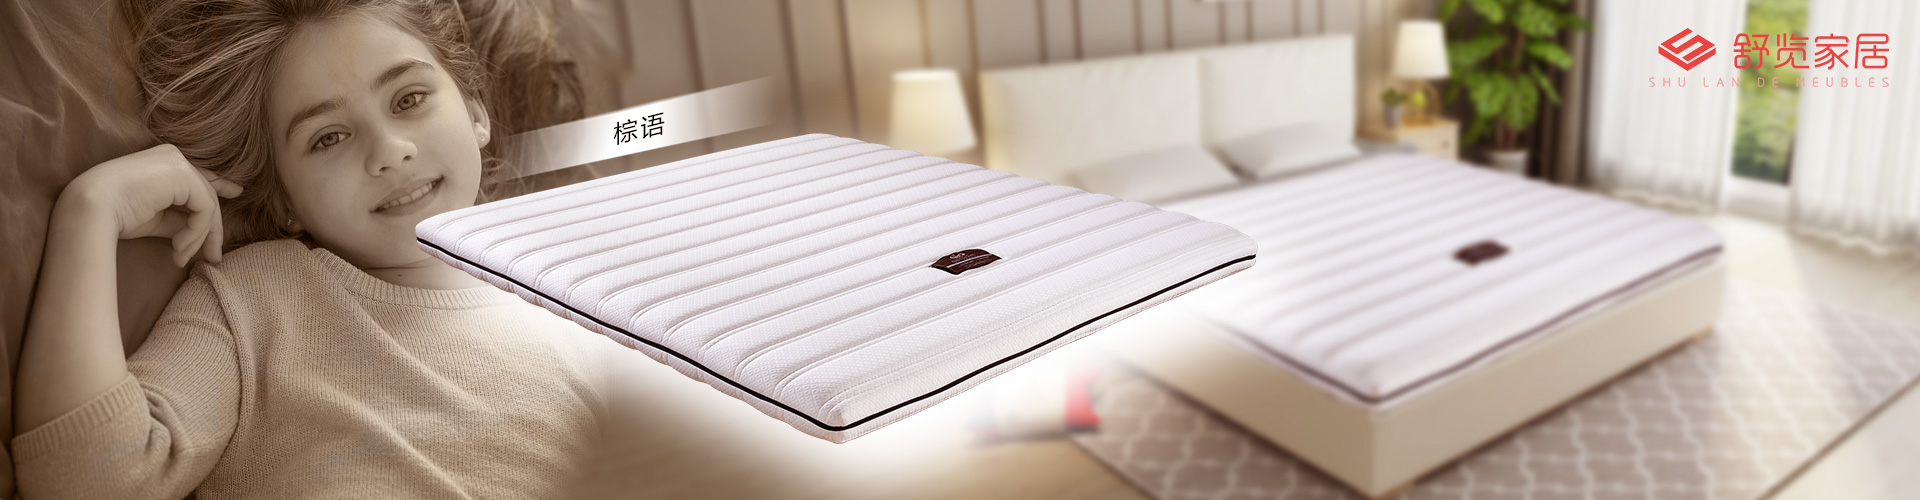
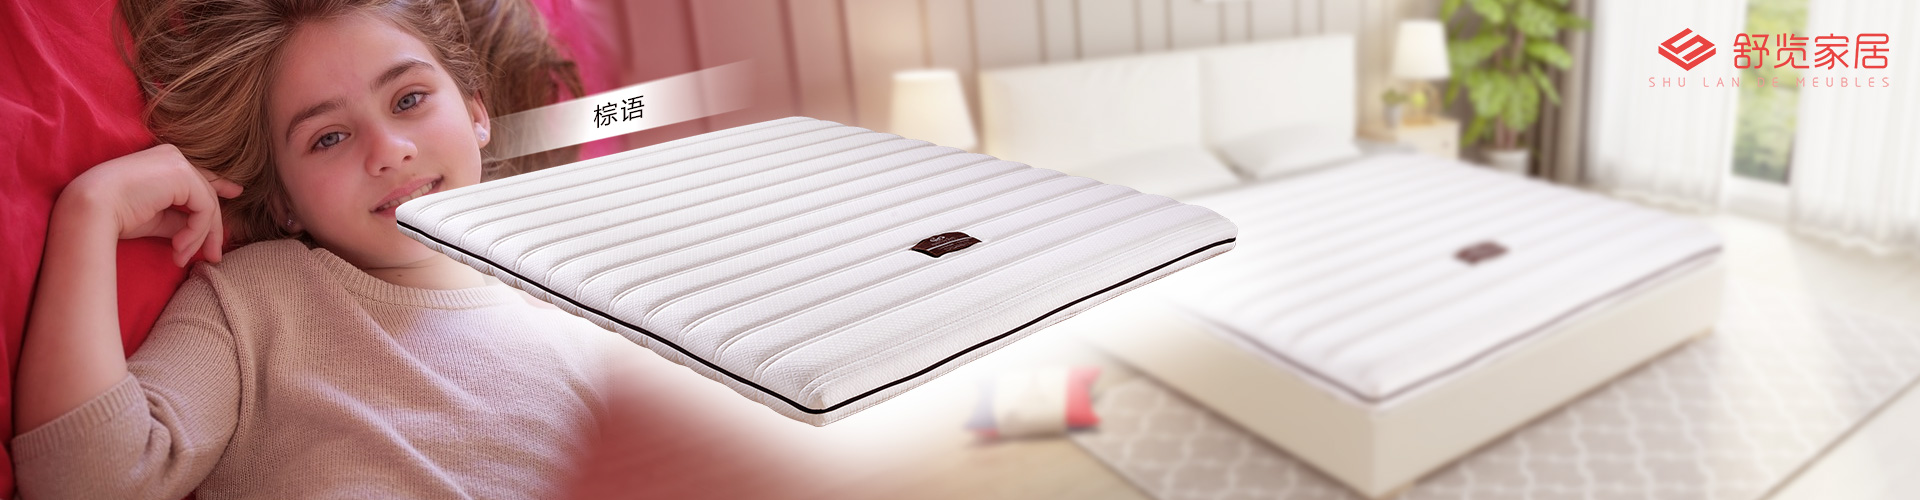
3-15b

diff --git a/src/components/yo-slideshow.vue b/src/components/yo-slideshow.vue
@@ -5,9 +5,15 @@
     <div class="swiper-wrapper">
       <!-- Slides -->
       <!-- <div class="swiper-slide" v-for="item in 3">Slide {{item}}</div> -->
-      <div class="swiper-slide w3-gray">Slide1</div>
-      <div class="swiper-slide w3-gray">Slide2</div>
-      <div class="swiper-slide w3-gray">Slide3</div>
+      <div class="swiper-slide">
+        <img src="/static/bigpic01.jpg" class="w3-block animated pulse infinite" alt="">
+      </div>
+      <div class="swiper-slide">
+        <img src="/static/bigpic06.jpg" class="w3-block animated pulse infinite" alt="">
+      </div>
+      <div class="swiper-slide">
+        <img src="/static/bigpic03.jpg" class="w3-block animated pulse infinite" alt="">
+      </div>
     </div>
     <!-- If we need pagination -->
     <div class="swiper-pagination"></div>
@@ -28,9 +34,9 @@ export default {
   },
   mounted() {
     const mySwiper = new Swiper(".swiper-container", {
-      centeredSlides: true,
+      // centeredSlides: true,
       autoplay: {
-        delay: 2500,
+        delay: 5000,
         disableOnInteraction: false
       },
       pagination: {
@@ -41,7 +47,8 @@ export default {
         nextEl: ".swiper-button-next",
         prevEl: ".swiper-button-prev"
       },
-      loop: true
+      loop: true,
+      lazy: true
     });
   }
 };
@@ -70,5 +77,9 @@ export default {
   -ms-flex-align: center;
   -webkit-align-items: center;
   align-items: center;
+}
+.pulse {
+  animation-duration: 12s;
+  animation-fill-mode: both;
 }
 </style>

diff --git a/src/pages/slindex.vue b/src/pages/slindex.vue
@@ -1,6 +1,6 @@
 <template>
     <div>
-        <yo-slideshow style="height:500px" class="wow flipInX"></yo-slideshow>
+        <yo-slideshow class="wow flipInX"></yo-slideshow>
         <!--  -->
         <div class="w3-padding-32 w3-row" style="max-width:1500px;margin:auto">
             <router-link :to="{name: 'brand'}">
@@ -30,7 +30,7 @@
 
         </div>
         <!--  -->
-        <div class="w3-padding-32 w3-row">
+        <div class="w3-padding-32 w3-row" style="max-width:1500px;margin:auto">
             <img src="/static/sulan1920x500.jpg" alt="" class="w3-block wow bounceIn" data-wow-delay="0.6s">
         </div>
         <!--  -->
@@ -41,7 +41,7 @@
                 </h2>
             </div>
             <div class="w3-quarter w3-padding">
-                <img :src="imgp" alt="" class="w3-block wow fadeInLeft">
+                <img src="/static/400x580a.jpg" alt="" class="w3-block wow fadeInLeft">
             </div>
             <div class="w3-half">
                 <ul class="w3-ul w3-padding wow fadeInUp">
@@ -59,7 +59,7 @@
                 </ul>
             </div>
             <div class="w3-quarter w3-padding">
-                <img :src="imgp" alt="" class="w3-block wow fadeInRight">
+                <img src="/static/400x580b.jpg" alt="" class="w3-block wow fadeInRight">
             </div>
         </div>
     </div>

diff --git a/src/pages/articlelist.vue b/src/pages/articlelist.vue
@@ -16,12 +16,12 @@
         <li v-for="item in 6" :key="item.id" class="w3-light-gray w3-border-bottom" data-wow-delay="0.2s">
           <router-link :to="{name: 'articledetail', params: { id: item }}">
 
-            <img :src="imgp" alt="" class="w3-left w3-margin-right w3-padding" style="height:187px">
+            <img src="/static/news.jpg" alt="" class="w3-left w3-margin-right w3-padding" style="height:187px">
             <div class="w3-light-gray" style="padding:0 50px;height:196px;overflow: hidden">
-              <h2>{{item.title}}</h2>
+              <h2>标题标题标题标题标题标题标题标题</h2>
               <i class="w3-text-gray">
                 <i class="fa fa-quote-left"></i>
-                简介：{{item.subtitle}}
+                简介：新闻简介新闻简介新闻简介新闻简介新闻简介新闻简介新闻简介新闻简介新闻简介新闻简介新闻简介新闻简介新闻简介新闻简介新闻简介新闻简介新闻简介新闻简介新闻简介新闻简介新闻简介新闻简介
                 <i class="fa fa-quote-right"></i>
               </i>
             </div>

diff --git a/src/pages/articledetail.vue b/src/pages/articledetail.vue
@@ -21,7 +21,7 @@
             <div class="w3-text-gray" style="padding:0 100px">
                 <p class="w3-padding-24">{{textp}}{{textp}}</p>
                 <p class="w3-center">
-                    <img :src="imgp" alt="" class="">
+                    <img src="/static/news.jpg" alt="" class="">
                 </p>
                 <p class="w3-padding-24">{{textp}}{{textp}}</p>
             </div>

diff --git a/src/pages/brand.vue b/src/pages/brand.vue
@@ -1,7 +1,7 @@
 <template>
     <div>
         <div class="w3-margin-bottom">
-            <img :src="imgsrc" alt="" class="w3-block wow fadeInUp w3-card">
+            <img src="/static/bigpic02.jpg" alt="" class="w3-block wow fadeInUp w3-card">
         </div>
         <div style="max-width:1500px;margin:auto">
             <div class="w3-padding-24 wow fadeInUp">

diff --git a/src/pages/productlist.vue b/src/pages/productlist.vue
@@ -1,7 +1,7 @@
 <template>
     <div>
         <div>
-            <img src="/static/brand.jpg" alt="" class="w3-block wow fadeIn w3-border w3-border-red">
+            <img src="/static/bigpic05.jpg" alt="" class="w3-block wow fadeIn w3-border w3-border-red">
         </div>
         <!--  -->
         <div class="w3-padding-24" style="max-width:1500px;margin:auto">
